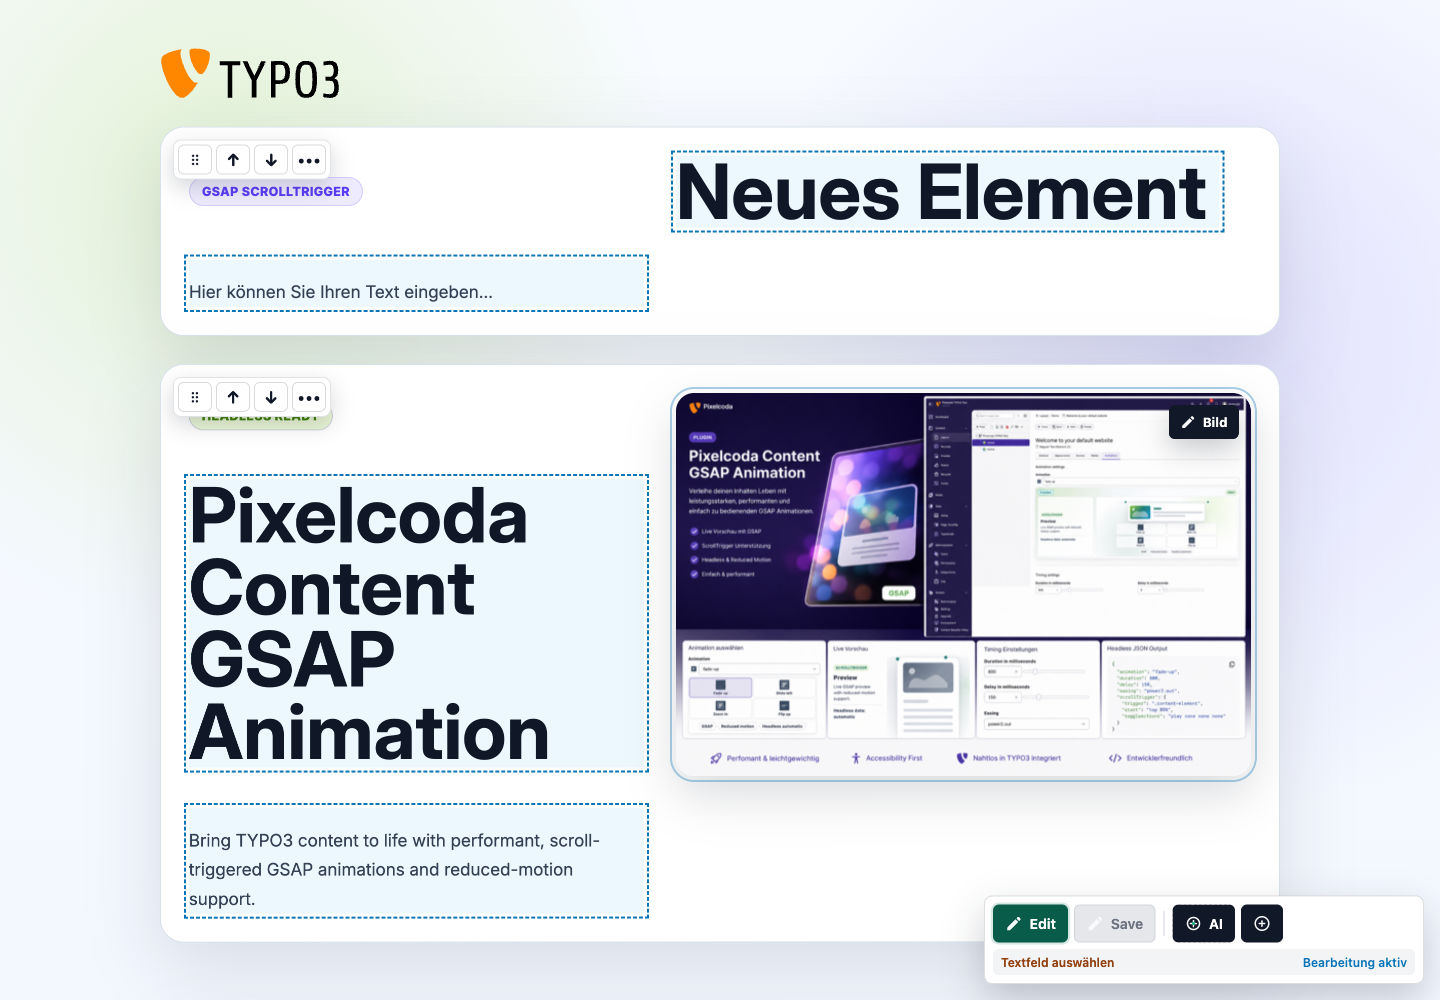
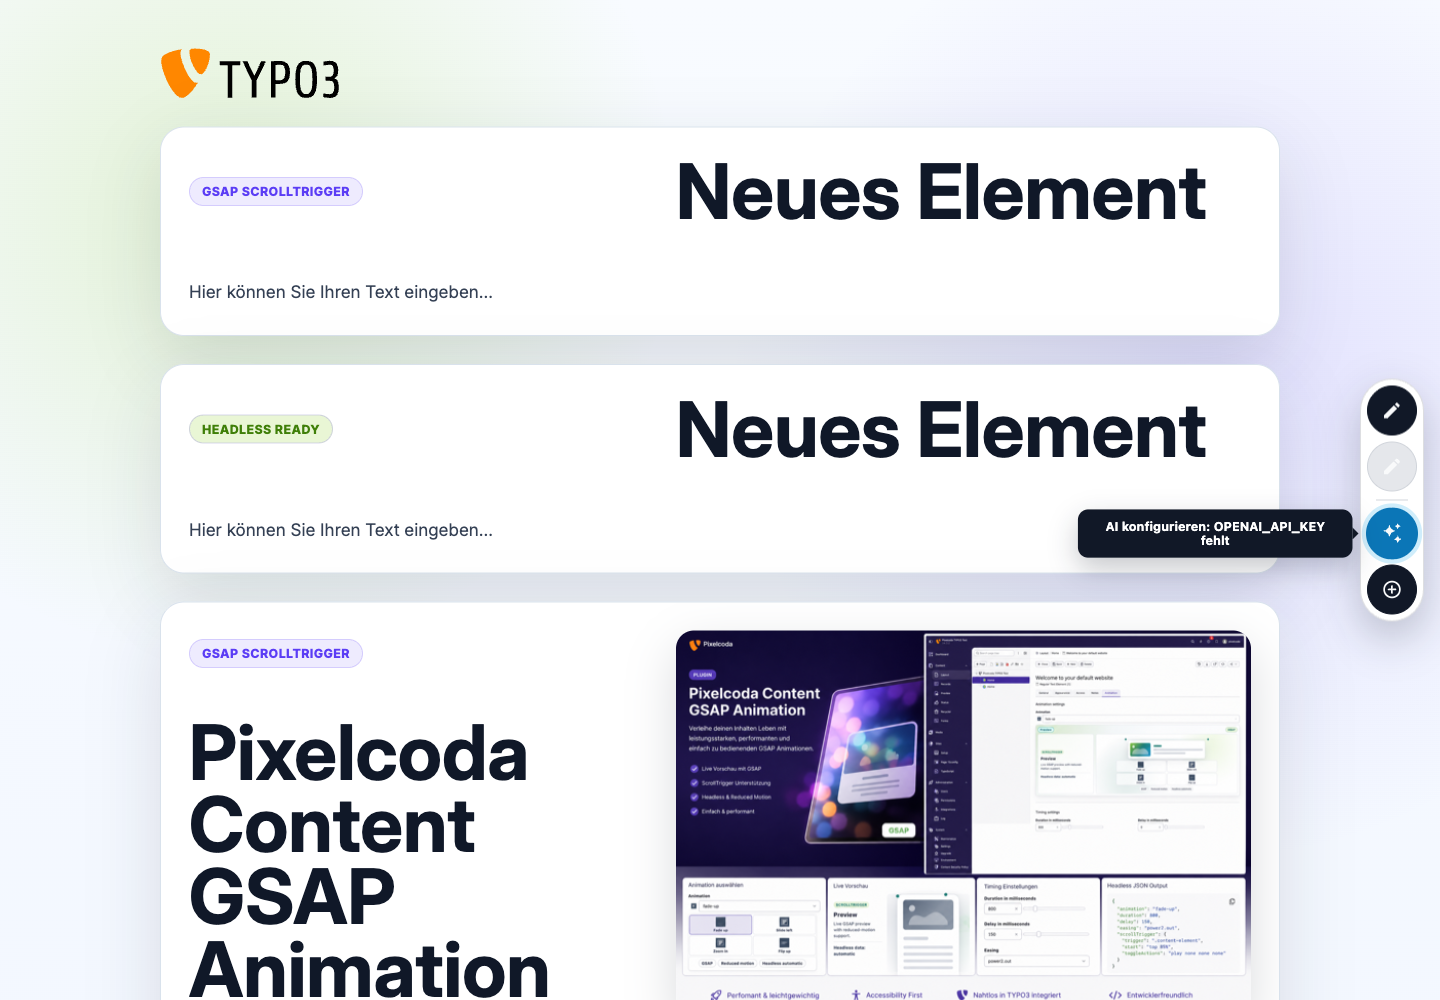
feat: add rounded frontend action rail

Changed region(s): [[0.0938, 0.372, 1.0, 1.0], [0.9375, 0.372, 1.0, 0.434], [0.125, 0.155, 0.2188, 0.186]]

diff --git a/packages/pixelcoda_fe_editor/Resources/Public/editor.css b/packages/pixelcoda_fe_editor/Resources/Public/editor.css
@@ -1,30 +1,37 @@
-.pc-fe-toolbar{position:fixed;right:1rem;bottom:1rem;width:min(440px,calc(100vw - 2rem));padding:.5rem;background:#fff;color:#111827;border:1px solid rgba(17,24,39,.14);border-radius:8px;z-index:99999;font:600 14px/1.2 system-ui,-apple-system,BlinkMacSystemFont,"Segoe UI",sans-serif;box-shadow:0 16px 38px rgba(17,24,39,.22)}
+.pc-fe-toolbar{position:fixed;right:1rem;top:50%;width:64px;padding:6px;background:#fff;color:#111827;border:1px solid rgba(17,24,39,.14);border-radius:999px;z-index:99999;font:600 14px/1.2 system-ui,-apple-system,BlinkMacSystemFont,"Segoe UI",sans-serif;box-shadow:0 16px 42px rgba(17,24,39,.24);transform:translateY(-50%)}
 .pc-fe-toolbar[hidden]{display:none}
-.pc-fe-toolbar-actions{display:flex;gap:.375rem;align-items:center}
-.pc-fe-toolbar-divider{width:1px;height:24px;margin:0 .125rem;background:#d1d5db}
-.pc-fe-toolbar-feedback{min-height:22px;margin-top:.4rem;padding:.35rem .5rem;display:flex;gap:.5rem;align-items:center;justify-content:space-between;border-radius:5px;background:#f3f4f6}
-.pc-fe-selection,.pc-fe-status{min-width:0;font:600 12px/1.25 system-ui,-apple-system,BlinkMacSystemFont,"Segoe UI",sans-serif;overflow-wrap:anywhere}
-.pc-fe-selection{color:#4b5563}
-.pc-fe-selection[data-state="waiting"]{color:#92400e}
-.pc-fe-selection[data-state="selected"]{color:#047857}
-.pc-fe-status{margin-left:auto;color:#4b5563;text-align:right}
+.pc-fe-toolbar-actions{display:flex;flex-direction:column;gap:6px;align-items:center}
+.pc-fe-toolbar-divider{width:32px;height:1px;margin:2px 0;background:#d1d5db}
+.pc-fe-toolbar-feedback{position:absolute;right:calc(100% + 16px);top:50%;width:max-content;max-width:min(330px,calc(100vw - 110px));min-height:48px;padding:.7rem 1rem;display:flex;flex-direction:column;gap:.2rem;align-items:flex-end;justify-content:center;border:1px solid rgba(255,255,255,.08);border-radius:16px;background:#111827;color:#fff;box-shadow:0 16px 38px rgba(17,24,39,.28);opacity:1;transform:translateY(-50%);transition:opacity .16s}
+.pc-fe-toolbar-feedback::after{content:"";position:absolute;left:100%;top:50%;border:8px solid transparent;border-left-color:#111827;transform:translateY(-50%)}
+.pc-fe-toolbar:has(.pc-fe-button:hover) .pc-fe-toolbar-feedback,.pc-fe-toolbar:has(.pc-fe-button:focus-visible) .pc-fe-toolbar-feedback{visibility:hidden;opacity:0;pointer-events:none}
+.pc-fe-selection,.pc-fe-status{min-width:0;max-width:100%;font:700 13px/1.25 system-ui,-apple-system,BlinkMacSystemFont,"Segoe UI",sans-serif;overflow-wrap:anywhere;text-align:right}
+.pc-fe-selection{color:#fff}
+.pc-fe-selection[data-state="waiting"]{color:#fde68a}
+.pc-fe-selection[data-state="selected"]{color:#a7f3d0}
+.pc-fe-status{color:#d1d5db}
 .pc-fe-status:empty{display:none}
-.pc-fe-status[data-state="warning"]{color:#9a3412}
-.pc-fe-status[data-state="success"]{color:#047857}
-.pc-fe-status[data-state="info"]{color:#0b76b7}
+.pc-fe-status[data-state="warning"]{color:#fdba74}
+.pc-fe-status[data-state="success"]{color:#a7f3d0}
+.pc-fe-status[data-state="info"]{color:#bae6fd}
 .pc-fe-editable{outline:2px dashed #0b76b7;outline-offset:3px;background:rgba(14,165,233,.08)}
 .pc-fe-editable:focus,.pc-fe-editable.pc-fe-selected{outline:3px solid #047857;outline-offset:4px;background:rgba(16,185,129,.1)}
-.pc-fe-button{min-width:42px;height:38px;padding:0 .7rem;display:inline-flex;align-items:center;justify-content:center;gap:.4rem;border-radius:6px;background:#111827;color:#fff;border:1px solid #111827;cursor:pointer;transition:background .16s,border-color .16s,box-shadow .16s;font:inherit}
-.pc-fe-icon-button{padding:0;width:42px}
-.pc-fe-icon{width:18px!important;height:18px!important;max-width:18px!important;max-height:18px!important;display:block;flex:0 0 auto;border-radius:0!important;box-shadow:none!important}
-.pc-fe-button:hover{background:#0b76b7;border-color:#0b76b7;box-shadow:0 0 0 3px rgba(14,165,233,.2)}
+.pc-fe-button{position:relative;width:50px;min-width:50px;height:50px;padding:0;display:inline-flex;align-items:center;justify-content:center;border-radius:50%;background:#111827;color:#fff;border:1px solid #111827;cursor:pointer;transition:background .16s,border-color .16s,box-shadow .16s,transform .16s;font:inherit}
+.pc-fe-button>span{position:absolute;width:1px;height:1px;padding:0;margin:-1px;overflow:hidden;clip:rect(0,0,0,0);white-space:nowrap;border:0}
+.pc-fe-button::before{content:attr(data-label);position:absolute;right:calc(100% + 14px);top:50%;width:max-content;max-width:240px;padding:.55rem .75rem;border-radius:10px;background:#111827;color:#fff;box-shadow:0 10px 26px rgba(17,24,39,.24);font:700 12px/1.2 system-ui,-apple-system,BlinkMacSystemFont,"Segoe UI",sans-serif;opacity:0;pointer-events:none;transform:translate(4px,-50%);transition:opacity .16s,transform .16s}
+.pc-fe-button::after{content:"";position:absolute;right:calc(100% + 2px);top:50%;border:6px solid transparent;border-left-color:#111827;opacity:0;pointer-events:none;transform:translate(4px,-50%);transition:opacity .16s,transform .16s}
+.pc-fe-icon-button{padding:0}
+.pc-fe-icon{width:21px!important;height:21px!important;max-width:21px!important;max-height:21px!important;display:block;flex:0 0 auto;border-radius:0!important;box-shadow:none!important}
+.pc-fe-ai .pc-fe-icon{width:24px!important;height:24px!important;max-width:24px!important;max-height:24px!important}
+.pc-fe-button:hover{background:#0b76b7;border-color:#0b76b7;box-shadow:0 0 0 4px rgba(14,165,233,.2);transform:scale(1.04)}
+.pc-fe-button:hover::before,.pc-fe-button:hover::after,.pc-fe-button:focus-visible::before,.pc-fe-button:focus-visible::after{opacity:1;transform:translate(0,-50%)}
 .pc-fe-button:focus-visible,.pc-fe-image-edit-button:focus-visible,.pc-fe-drag-handle:focus-visible,.pc-fe-move-button:focus-visible,.pc-fe-actions-toggle:focus-visible,.pc-fe-actions-menu button:focus-visible,.pc-fe-confirm button:focus-visible{outline:3px solid #f59e0b;outline-offset:2px}
-.pc-fe-button.active{background:#047857;border-color:#047857;box-shadow:0 0 0 3px rgba(4,120,87,.24)}
+.pc-fe-button.active{background:#047857;border-color:#047857;box-shadow:0 0 0 4px rgba(4,120,87,.24)}
 .pc-fe-save{background:#0b76b7;border-color:#0b76b7}
 .pc-fe-save.dirty{background:#b45309;border-color:#b45309;color:#fff}
 .pc-fe-ai.is-unconfigured{border-style:dashed}
 .pc-fe-ai.is-loading .pc-fe-icon{animation:pc-fe-pulse 1s ease-in-out infinite}
-.pc-fe-button:disabled{background:#e5e7eb;color:#6b7280;border-color:#d1d5db;cursor:not-allowed;box-shadow:none}
+.pc-fe-button:disabled{background:#e5e7eb;color:#6b7280;border-color:#d1d5db;cursor:not-allowed;box-shadow:none;transform:none}
 .pc-drop{padding:.75rem;border:2px dashed #e5e7eb;border-radius:.5rem;margin:.5rem 0;display:flex;gap:.5rem;align-items:center;justify-content:center}
 .pc-add{all:unset;background:#0ea5e9;color:#fff;padding:.25rem .5rem;border-radius:.375rem;cursor:pointer}
 .pc-add:hover{background:#0284c7}
@@ -92,6 +99,6 @@
 .pc-fe-drawer-primary:hover{background:#065f46;border-color:#065f46}
 .pc-fe-drawer-primary:disabled{border-color:#d1d5db;background:#e5e7eb;color:#6b7280;cursor:not-allowed}
 @keyframes pc-fe-pulse{50%{opacity:.35}}
-@media (max-width:520px){.pc-fe-toolbar{right:.5rem;bottom:.5rem;width:calc(100vw - 1rem)}.pc-fe-toolbar-actions{display:grid;grid-template-columns:repeat(4,1fr)}.pc-fe-toolbar-divider{display:none}.pc-fe-button{width:100%;padding:0 .45rem}.pc-fe-toolbar-feedback{align-items:flex-start;flex-direction:column;gap:.2rem}.pc-fe-status{margin-left:0;text-align:left}.pc-fe-drawer{width:100vw}.pc-fe-ai-actions{grid-template-columns:1fr}.pc-fe-ai-field{align-items:flex-start;flex-direction:column;gap:.25rem}}
-@media (prefers-color-scheme:dark){.pc-fe-drawer{background:#111827;color:#f9fafb;border-left-color:#374151}.pc-fe-drawer-header{background:#111827;border-bottom-color:#374151}.pc-fe-drawer-title{color:#f9fafb}.pc-fe-drawer-close,.pc-fe-ai-action,.pc-fe-ai-field{background:#172033;color:#f9fafb;border-color:#4b5563}.pc-fe-drawer-hint{background:#172033;color:#d1d5db;border-bottom-color:#374151}.pc-fe-ai-panel{background:#0f172a}.pc-fe-ai-panel .pc-fe-drawer-hint{background:transparent}.pc-fe-ai-actions legend{color:#e5e7eb}.pc-fe-ai-field span{color:#9ca3af}.pc-fe-ai-action:hover,.pc-fe-ai-action.active{background:#0c4a6e;color:#e0f2fe;border-color:#38bdf8}.pc-fe-ai-config{background:#064e3b;color:#d1fae5;border-color:#047857}.pc-fe-ai-config[data-state="warning"]{background:#431407;color:#ffedd5;border-color:#c2410c}.pc-fe-move-controls,.pc-fe-drag-handle,.pc-fe-move-button,.pc-fe-actions-toggle,.pc-fe-actions-menu,.pc-fe-confirm,.pc-fe-confirm button{background:#172033;color:#f9fafb;border-color:#4b5563}.pc-fe-actions-menu button,.pc-fe-actions-meta strong{color:#f9fafb}.pc-fe-actions-meta{border-bottom-color:#374151}.pc-fe-actions-meta span{color:#9ca3af}.pc-fe-actions-menu button:hover,.pc-fe-actions-menu button:focus{background:#0c4a6e;color:#e0f2fe}.pc-fe-confirm p{color:#d1d5db}}
+@media (max-width:680px){.pc-fe-toolbar{right:.5rem;top:auto;bottom:.5rem;width:auto;padding:5px;transform:none}.pc-fe-toolbar-actions{flex-direction:row}.pc-fe-toolbar-divider{width:1px;height:30px;margin:0 2px}.pc-fe-button{width:46px;min-width:46px;height:46px}.pc-fe-button::before,.pc-fe-button::after{display:none}.pc-fe-toolbar-feedback{right:0;top:auto;bottom:calc(100% + 12px);max-width:calc(100vw - 1rem);min-height:42px;align-items:flex-end;transform:none}.pc-fe-toolbar-feedback::after{left:auto;right:20px;top:100%;border-color:#111827 transparent transparent transparent;transform:none}.pc-fe-drawer{width:100vw}.pc-fe-ai-actions{grid-template-columns:1fr}.pc-fe-ai-field{align-items:flex-start;flex-direction:column;gap:.25rem}}
+@media (prefers-color-scheme:dark){.pc-fe-toolbar{background:#172033;border-color:#4b5563}.pc-fe-drawer{background:#111827;color:#f9fafb;border-left-color:#374151}.pc-fe-drawer-header{background:#111827;border-bottom-color:#374151}.pc-fe-drawer-title{color:#f9fafb}.pc-fe-drawer-close,.pc-fe-ai-action,.pc-fe-ai-field{background:#172033;color:#f9fafb;border-color:#4b5563}.pc-fe-drawer-hint{background:#172033;color:#d1d5db;border-bottom-color:#374151}.pc-fe-ai-panel{background:#0f172a}.pc-fe-ai-panel .pc-fe-drawer-hint{background:transparent}.pc-fe-ai-actions legend{color:#e5e7eb}.pc-fe-ai-field span{color:#9ca3af}.pc-fe-ai-action:hover,.pc-fe-ai-action.active{background:#0c4a6e;color:#e0f2fe;border-color:#38bdf8}.pc-fe-ai-config{background:#064e3b;color:#d1fae5;border-color:#047857}.pc-fe-ai-config[data-state="warning"]{background:#431407;color:#ffedd5;border-color:#c2410c}.pc-fe-move-controls,.pc-fe-drag-handle,.pc-fe-move-button,.pc-fe-actions-toggle,.pc-fe-actions-menu,.pc-fe-confirm,.pc-fe-confirm button{background:#172033;color:#f9fafb;border-color:#4b5563}.pc-fe-actions-menu button,.pc-fe-actions-meta strong{color:#f9fafb}.pc-fe-actions-meta{border-bottom-color:#374151}.pc-fe-actions-meta span{color:#9ca3af}.pc-fe-actions-menu button:hover,.pc-fe-actions-menu button:focus{background:#0c4a6e;color:#e0f2fe}.pc-fe-confirm p{color:#d1d5db}}
 @media (prefers-reduced-motion:reduce){.pc-fe-button,.pc-fe-ai.is-loading .pc-fe-icon,.pc-fe-drawer,.pc-fe-drawer-backdrop{transition:none;animation:none}}

diff --git a/packages/pixelcoda_fe_editor/Resources/Public/editor.js b/packages/pixelcoda_fe_editor/Resources/Public/editor.js
@@ -331,12 +331,19 @@
             scheduleAutosave();
         }
 
+        function setButtonLabel(button, label) {
+            if (!button) return;
+            button.dataset.label = label;
+            button.setAttribute('aria-label', label);
+        }
+
         function updateSaveButton() {
             if (!saveButton) return;
             const dirty = dirtyFields.size > 0;
             saveButton.disabled = !dirty;
             saveButton.classList.toggle('dirty', dirty);
             saveButton.classList.toggle('has-unsaved-changes', dirty);
+            setButtonLabel(saveButton, dirty ? 'Änderungen speichern' : 'Keine ungespeicherten Änderungen');
             const label = saveButton.querySelector('span');
             if (label) {
                 label.textContent = dirty ? 'Save *' : 'Save';
@@ -544,22 +551,22 @@
 
             if (editToggle) {
                 editToggle.disabled = !canEdit;
-                editToggle.title = canEdit
-                    ? 'Frontend Editing aktivieren'
-                    : 'Keine editierbaren Felder auf dieser Seite gefunden';
+                setButtonLabel(editToggle, canEdit
+                    ? (editMode ? 'Frontend Editing deaktivieren' : 'Frontend Editing aktivieren')
+                    : 'Keine editierbaren Felder auf dieser Seite gefunden');
             }
             if (addGlobal) {
                 addGlobal.disabled = !canAdd;
-                addGlobal.title = canAdd
-                    ? 'Neues Element hinzufuegen'
-                    : 'Keine Zielseite fuer neue Elemente gefunden';
+                setButtonLabel(addGlobal, canAdd
+                    ? 'Neues Element hinzufügen'
+                    : 'Keine Zielseite für neue Elemente gefunden');
             }
             if (aiButton) {
                 const configured = TYPO3?.settings?.feEditorAiConfigured === true;
                 aiButton.classList.toggle('is-unconfigured', !configured);
-                aiButton.title = configured
+                setButtonLabel(aiButton, configured
                     ? 'Ausgewählten Text mit AI verbessern'
-                    : 'AI konfigurieren: OPENAI_API_KEY fehlt';
+                    : 'AI konfigurieren: OPENAI_API_KEY fehlt');
             }
             if (!canEdit && !canAdd) {
                 setStatus('Keine FE-Edit Marker', 'warning');
@@ -580,6 +587,7 @@
                 setEditable(editMode);
                 e.target.closest('#pc-edit-toggle').classList.toggle('active', editMode);
                 e.target.closest('#pc-edit-toggle').setAttribute('aria-pressed', editMode ? 'true' : 'false');
+                setButtonLabel(editToggle, editMode ? 'Frontend Editing deaktivieren' : 'Frontend Editing aktivieren');
                 setStatus(editMode ? 'Bearbeitung aktiv' : 'Bearbeitung beendet', 'info');
             }
             if (e.target.closest('#pc-save')) {
@@ -632,6 +640,7 @@
                     if (editToggle) {
                         editToggle.classList.toggle('active', true);
                         editToggle.setAttribute('aria-pressed', 'true');
+                        setButtonLabel(editToggle, 'Frontend Editing deaktivieren');
                     }
                 }
                 const el = getActiveEditable();

diff --git a/packages/pixelcoda_fe_editor/Classes/Middleware/FrontendEditOverlay.php b/packages/pixelcoda_fe_editor/Classes/Middleware/FrontendEditOverlay.php
@@ -107,11 +107,11 @@ final class FrontendEditOverlay implements MiddlewareInterface
 <link rel="stylesheet" href="{$cssPath}">
 <div id="pc-fe-toolbar-root" class="pc-fe-toolbar" role="toolbar" aria-label="Frontend Editing">
   <div class="pc-fe-toolbar-actions">
-    <button id="pc-edit-toggle" class="pc-fe-button" type="button" title="Frontend Editing aktivieren" aria-pressed="false"><img class="pc-fe-icon" src="{$editIconHtmlPath}" alt="" onerror="this.hidden=true"><span>Edit</span></button>
-    <button id="pc-save" class="pc-fe-button pc-fe-save" type="button" title="Aenderungen speichern" disabled><img class="pc-fe-icon" src="{$editIconHtmlPath}" alt="" onerror="this.hidden=true"><span>Save</span></button>
+    <button id="pc-edit-toggle" class="pc-fe-button" type="button" data-label="Frontend Editing aktivieren" aria-label="Frontend Editing aktivieren" aria-pressed="false"><img class="pc-fe-icon" src="{$editIconHtmlPath}" alt="" onerror="this.hidden=true"><span>Edit</span></button>
+    <button id="pc-save" class="pc-fe-button pc-fe-save" type="button" data-label="Änderungen speichern" aria-label="Änderungen speichern" disabled><img class="pc-fe-icon" src="{$editIconHtmlPath}" alt="" onerror="this.hidden=true"><span>Save</span></button>
     <span class="pc-fe-toolbar-divider" aria-hidden="true"></span>
-    <button id="pc-ai" class="pc-fe-button pc-fe-ai" type="button" title="Ausgewaehlten Text mit AI verbessern"><img class="pc-fe-icon" src="{$aiIconHtmlPath}" alt="" onerror="this.hidden=true"><span>AI</span></button>
-    <button id="pc-add-global" class="pc-fe-button pc-fe-icon-button" type="button" title="Neues Element hinzufuegen" aria-label="Neues Element hinzufuegen"><img class="pc-fe-icon" src="{$addIconHtmlPath}" alt="" onerror="this.hidden=true"></button>
+    <button id="pc-ai" class="pc-fe-button pc-fe-ai" type="button" data-label="AI-Schreibassistent öffnen" aria-label="AI-Schreibassistent öffnen"><img class="pc-fe-icon" src="{$aiIconHtmlPath}" alt="" onerror="this.hidden=true"><span>AI</span></button>
+    <button id="pc-add-global" class="pc-fe-button pc-fe-icon-button" type="button" data-label="Neues Element hinzufügen" aria-label="Neues Element hinzufügen"><img class="pc-fe-icon" src="{$addIconHtmlPath}" alt="" onerror="this.hidden=true"></button>
   </div>
   <div class="pc-fe-toolbar-feedback">
     <span id="pc-fe-selection" class="pc-fe-selection">Editieren aktivieren</span>
@@ -168,7 +168,11 @@ HTML;
 
     private function getAssetWebPath(string $assetPath): string
     {
-        return PathUtility::getAbsoluteWebPath(GeneralUtility::getFileAbsFileName($assetPath));
+        $absolutePath = GeneralUtility::getFileAbsFileName($assetPath);
+        $webPath = PathUtility::getAbsoluteWebPath($absolutePath);
+        $modifiedAt = filemtime($absolutePath);
+
+        return $modifiedAt === false ? $webPath : $webPath . '?v=' . $modifiedAt;
     }
 
     private function getPageId(ServerRequestInterface $request): int

diff --git a/packages/pixelcoda_fe_editor/ext_emconf.php b/packages/pixelcoda_fe_editor/ext_emconf.php
@@ -6,7 +6,7 @@ $EM_CONF[$_EXTKEY] = [
   'state' => 'stable',
   'author' => 'PixelCoda',
   'author_email' => '',
-  'version' => '1.1.1',
+  'version' => '1.2.0',
   'icon' => 'EXT:pixelcoda_fe_editor/Resources/Public/Icons/ext-icon.svg',
   'constraints' => [
     'depends' => ['typo3' => '12.4.0-14.9.99']

diff --git a/packages/pixelcoda_fe_editor/CHANGELOG.md b/packages/pixelcoda_fe_editor/CHANGELOG.md
@@ -1,5 +1,13 @@
 # Changelog
 
+## 1.2.0 - 2026-06-04
+
+- Rebuilt the frontend toolbar as a compact rounded action rail for desktop and mobile.
+- Added accessible contextual tooltips with synchronized ARIA labels and state-aware actions.
+- Replaced the ambiguous AI icon with a dedicated Sparkles symbol.
+- Added cache-busting asset URLs so updated toolbar assets appear immediately after deployment.
+- Improved toolbar light/dark mode, focus states and responsive layout without changing editing APIs.
+
 ## 1.1.1 - 2026-06-04
 
 - Improved GitHub, Composer and TYPO3 extension descriptions for discoverability.

diff --git a/packages/pixelcoda_fe_editor/README.md b/packages/pixelcoda_fe_editor/README.md
@@ -2,13 +2,13 @@
 
 Accessible frontend editing for TYPO3 12 LTS, TYPO3 13 LTS and TYPO3 14. Edit content directly on the rendered website with inline text editing, drag-and-drop sorting, contextual FormEngine records, image editing, headless-ready markers and an optional AI writing assistant.
 
-> Status: stable. Version 1.1.1 supports TYPO3 12 LTS, TYPO3 13 LTS and TYPO3 14.
+> Status: stable. Version 1.2.0 supports TYPO3 12 LTS, TYPO3 13 LTS and TYPO3 14.
 
 ![Pixelcoda TYPO3 frontend editing overview](Documentation/Images/editor-overview.png)
 
 ## Features
 
-- Frontend toolbar for authenticated TYPO3 backend users.
+- Responsive rounded action rail for authenticated TYPO3 backend users, with accessible contextual tooltips.
 - Inline editing for `tt_content.header`, `bodytext` and related text fields.
 - Autosave and manual save through TYPO3 `DataHandler`.
 - CSRF protection through TYPO3 backend `FormProtection`.

diff --git a/README.md b/README.md
@@ -4,7 +4,7 @@ Accessible, premium frontend editing for TYPO3 12 LTS, TYPO3 13 LTS and TYPO3 14
 
 Edit TYPO3 content directly on the rendered website with inline text editing, drag-and-drop sorting, contextual FormEngine records, image editing, headless-ready markers and an optional AI writing assistant.
 
-> Stable release: `v1.1.1` · Extension key: `pixelcoda_fe_editor` · Composer package: `pixelcoda/fe-editor`
+> Stable release: `v1.2.0` · Extension key: `pixelcoda_fe_editor` · Composer package: `pixelcoda/fe-editor`
 
 ![Pixelcoda TYPO3 frontend editing overview](packages/pixelcoda_fe_editor/Documentation/Images/editor-overview.png)
 